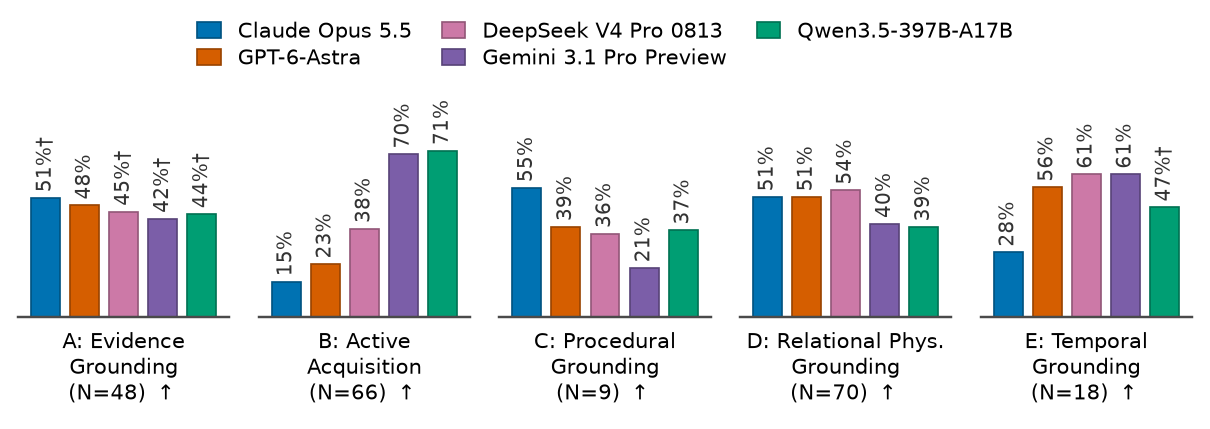
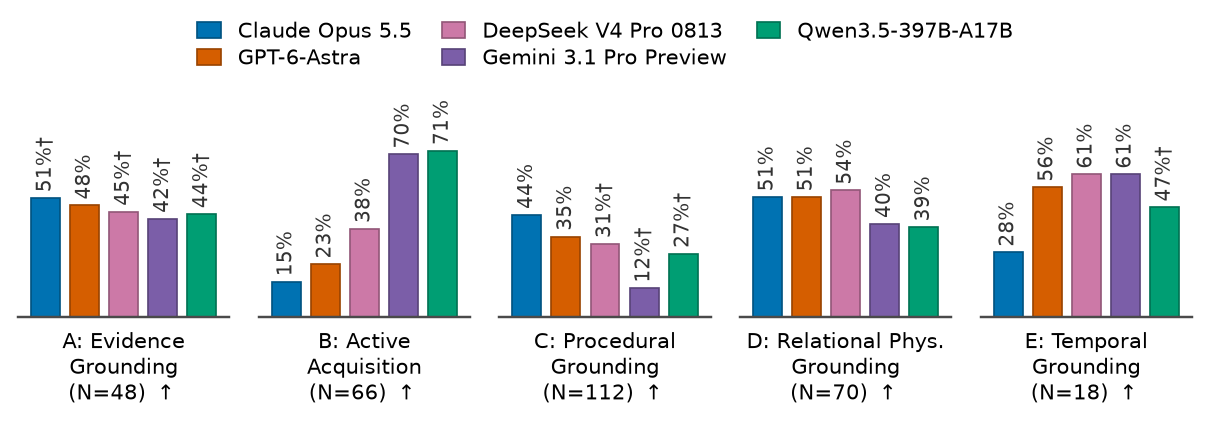
Fix Qwen D row (partial 44-ep file -> merged N=70) and scale C bars
Table builder read the partial dphys _v3_full.jsonl for Qwen; switched to
the _merged N=70 file: D CC 0.727->0.614, LCA 0.417->0.304 (CSA 0.386 was
already correct). Adds C_scaled (112-episode template pool, mean
required-action recall) to the table and uses it for the capability bars,
labelled with its real N=112. Regenerates Figures 5-7.

Changed region(s): [[0.3975, 0.3333, 0.581, 0.697], [0.4281, 0.8788, 0.5504, 0.9394]]

diff --git a/reports/benchmark/figures/build_new_panel_table.py b/reports/benchmark/figures/build_new_panel_table.py
@@ -90,7 +90,7 @@ qrows = [json.loads(l) for l in (FROZEN93 / "raw_Qwen3.5-397B-A17B.jsonl").read_
 qa = [r for r in qrows if r["dim"] == "A"]
 qeval = [r for r in qa if r["runner_return"].get("verdict", "") != ""]
 q_tda = sum(r["runner_return"]["metric"]["TDA"] for r in qeval) / len(qeval)
-qd = [json.loads(l) for l in (DPHYS / "dphys_pilot_raw_tokenrouter_qwen_qwen3.5-397b-a17b_v3_full.jsonl").read_text().splitlines()]
+qd = [json.loads(l) for l in (DPHYS / "dphys_pilot_raw_tokenrouter_qwen_qwen3.5-397b-a17b_v3_full_merged.jsonl").read_text().splitlines()]
 q_cc = sum(r["score"]["CC"] for r in qd) / len(qd)
 q_lca_vals = [r["score"]["LCA"] for r in qd if r["score"].get("LCA") is not None]
 q_lca = sum(q_lca_vals) / len(q_lca_vals) if q_lca_vals else None
@@ -105,6 +105,17 @@ out["Qwen3.5-397B-A17B"] = {
     "D_CC": round(q_cc, 4), "D_LCA": round(q_lca, 4) if q_lca is not None else None,
     "E": {"value": qm["E_CC_grounded"]["value"], "n": qm["E_CC_grounded"]["n_valid"], "caveat": qm["E_CC_grounded"]["n_valid"] < 18},
 }
+
+# Scaled C: template-generated 112-episode pool (phase8j3), mean required-action recall.
+C_LABELS = {"Claude Opus 5.5": "Claude_Opus_5.5", "GPT-6-Astra": "GPT-6-Astra",
+            "DeepSeek V4 Pro 0813": "DeepSeek_V4_Pro_0813", "Gemini 3.1 Pro Preview": "Gemini_3.1_Pro_Preview",
+            "Qwen3.5-397B-A17B": "Qwen3.5-397B-A17B"}
+for mname, lab in C_LABELS.items():
+    rows = [json.loads(l) for l in (REPO / "reports/benchmark/v3_full_results/c_generated_112" / f"raw_{lab}.jsonl").read_text().splitlines()]
+    valid = [r for r in rows if not r.get("infra_failure") and not r.get("apparatus_failure")]
+    rec = [r["score"]["required_action_prf1"]["recall"] for r in valid if r["score"]["required_action_prf1"]["recall"] is not None]
+    out[mname]["C_scaled"] = {"value": round(sum(rec) / len(rec), 4), "n": len(valid), "pool": len(rows)}
+out["_N"]["C_scaled"] = 112
 
 (HERE / "new_panel_main_table_v1.json").write_text(json.dumps(out, indent=2))
 print(json.dumps(out, indent=2))

diff --git a/reports/benchmark/figures/capability_bars_new_panel.py b/reports/benchmark/figures/capability_bars_new_panel.py
@@ -50,10 +50,10 @@ DIMS = ["A", "B", "C", "D", "E"]
 DIM_LABEL = {"A": "A: Evidence\nGrounding", "B": "B: Active\nAcquisition",
              "C": "C: Procedural\nGrounding", "D": "D: Relational Phys.\nGrounding",
              "E": "E: Temporal\nGrounding"}
-CAPS = [(DIM_LABEL[d], DATA_JSON["_N"][d]) for d in DIMS]
+CAPS = [(DIM_LABEL[d], DATA_JSON["_N"]["C_scaled"] if d == "C" else DATA_JSON["_N"][d]) for d in DIMS]
 
 # rows = models (order of MODELS), cols = capabilities (order of CAPS)
-DATA = np.array([[DATA_JSON[m][d]["value"] for d in DIMS] for m in MODELS])
+DATA = np.array([[DATA_JSON[m]["C_scaled"]["value"] if d == "C" else DATA_JSON[m][d]["value"] for d in DIMS] for m in MODELS])
 
 # partial-validity cells: (row, col) -> "n=<evaluated>/<N>" sub-label, for any
 # cell where the model's evaluated n fell short of the capability's full N
@@ -61,9 +61,11 @@ DATA = np.array([[DATA_JSON[m][d]["value"] for d in DIMS] for m in MODELS])
 PARTIAL = {}
 for i, m in enumerate(MODELS):
     for j, d in enumerate(DIMS):
-        cell = DATA_JSON[m][d]
-        if cell.get("caveat") and cell["value"] is not None:
-            PARTIAL[(i, j)] = f"n={cell['n']}/{DATA_JSON['_N'][d]}"
+        cell = DATA_JSON[m]["C_scaled"] if d == "C" else DATA_JSON[m][d]
+        full_n = DATA_JSON["_N"]["C_scaled"] if d == "C" else DATA_JSON["_N"][d]
+        short = cell["n"] < full_n if d == "C" else cell.get("caveat")
+        if short and cell["value"] is not None:
+            PARTIAL[(i, j)] = f"n={cell['n']}/{full_n}"
 
 # ---------------------------------------------------------------- helpers
 def shade(hex_c, f=0.72):
